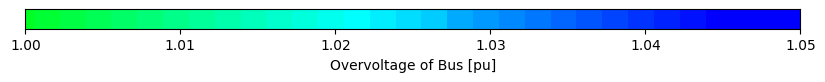
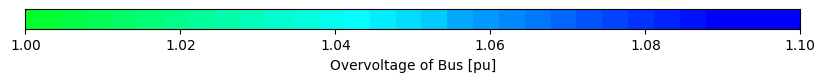
final updates

diff --git a/dash-visualization-tool.py b/dash-visualization-tool.py
@@ -24,7 +24,6 @@ ext_grid_df = pd.read_excel(pathLV+'ext_grid_df.xlsx')
 line_df = pd.read_excel(pathLV+'line_df.xlsx')
 line_df = line_df.drop(columns={'Unnamed: 0'})
 
-
 load_per_bus_df = pd.read_excel(pathLV+'load_per_bus_df.xlsx')
 
 netLV = createLVnet(bus_df, line_df, ext_grid_df, load_per_bus_df)
@@ -43,11 +42,11 @@ green_to_blue = ['#00FF00','#00FF11','#00FF22','#00FF33','#00FF44','#00FF55','#0
                 '#00FFAA','#00FFBB','#00FFCC','#00FFDD','#00FFEE','#00FFFF','#00EEFF','#00DDFF','#00CCFF','#00AAFF','#0099FF','#0088FF',
                 '#0077FF','#0066FF','#0055FF','#0044FF','#0033FF','#0022FF','#0011FF','#0000FF']
 
-cut_off_v_pu_hardcoded_undervoltage = 0.95 # cut_off_v_pu is hardcoded; below(or above) the cutt of voltage all nodes will have the same color
-cut_off_v_pu_hardcoded_overvoltage = 1.05
+cut_off_v_pu_hardcoded_undervoltage = 0.90 # cut_off_v_pu is hardcoded; below(or above) the cutt of voltage all nodes will have the same color
+cut_off_v_pu_hardcoded_overvoltage = 1.10
 
 ##############################################################
-Pandanet = netMV  # Change here to the network you want to use
+Pandanet = netLV  # Change here to the network you want to use
 ###############################################################
 
 pp.runpp(Pandanet) # run powerflow on the network
@@ -253,8 +252,8 @@ def displayHoverNodeData(data):
 
 @app.callback( 
     # displays info when hovering over a line, info stays displayed until user hovers over another line
-    Output('hover-info-line','children'),
-    Input('net map', 'mouseoverEdgeData')
+    Output(component_id='hover-info-line',component_property='children'),
+    Input(component_id='net map',component_property= 'mouseoverEdgeData')
     )
 def displayHoverEdgeData(data):
     if data:
